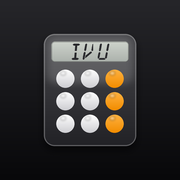
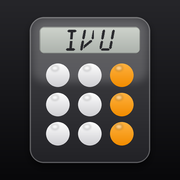
Ícono grande y service worker v2

diff --git a/sw.js b/sw.js
@@ -1,4 +1,4 @@
-const C='con-el-ivu-v1';
+const C='con-el-ivu-v2';
 const A=['./','./index.html','./manifest.webmanifest','./icon-180.png','./icon-192.png','./icon-512.png'];
 self.addEventListener('install',e=>{e.waitUntil(caches.open(C).then(c=>c.addAll(A)).then(()=>self.skipWaiting()))});
 self.addEventListener('activate',e=>{e.waitUntil(caches.keys().then(ks=>Promise.all(ks.filter(k=>k!==C).map(k=>caches.delete(k)))).then(()=>self.clients.claim()))});
